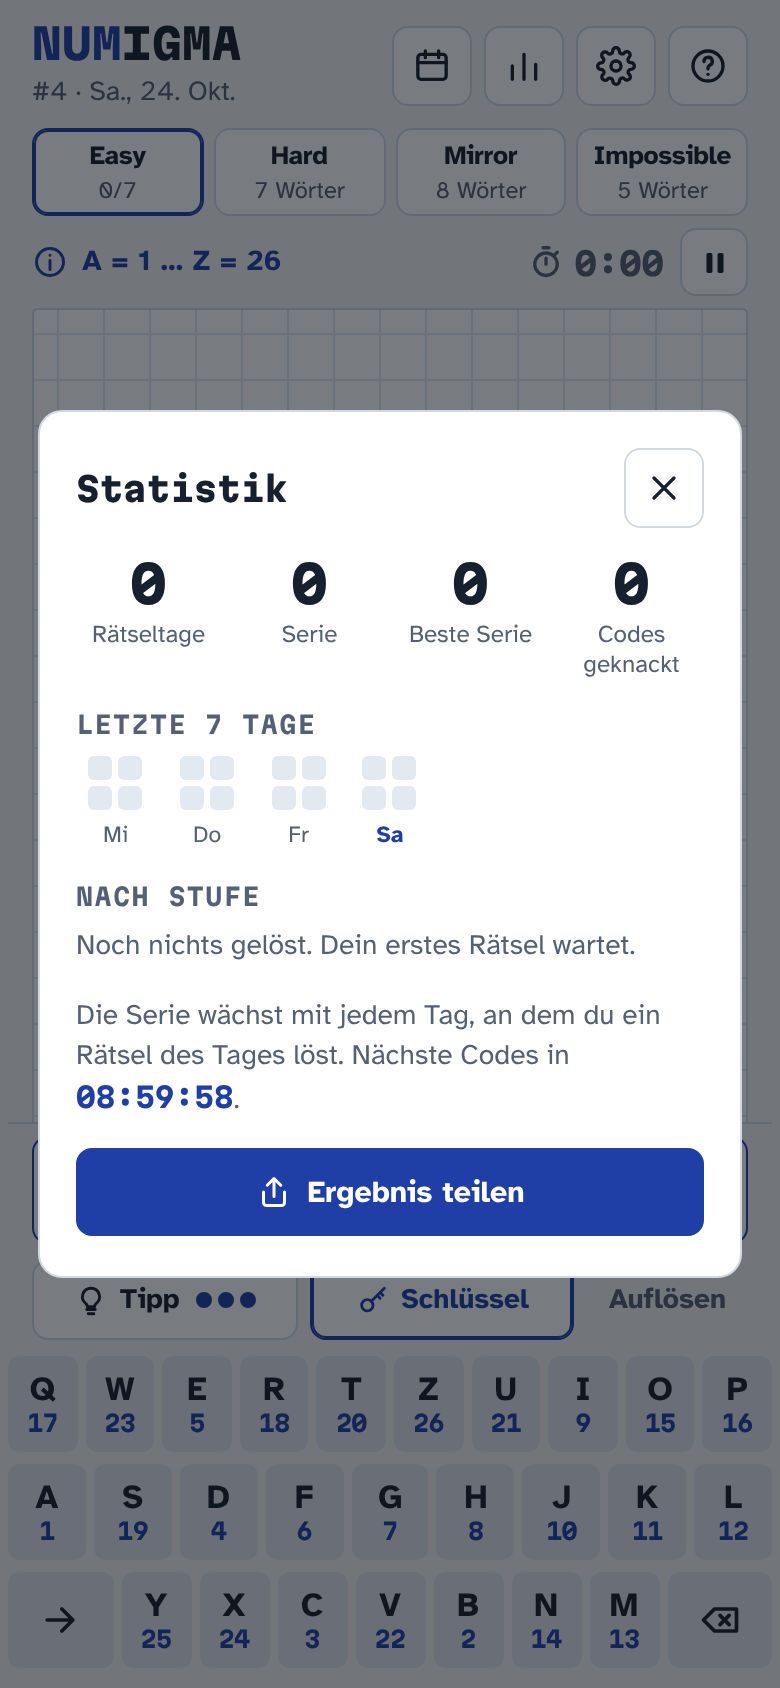
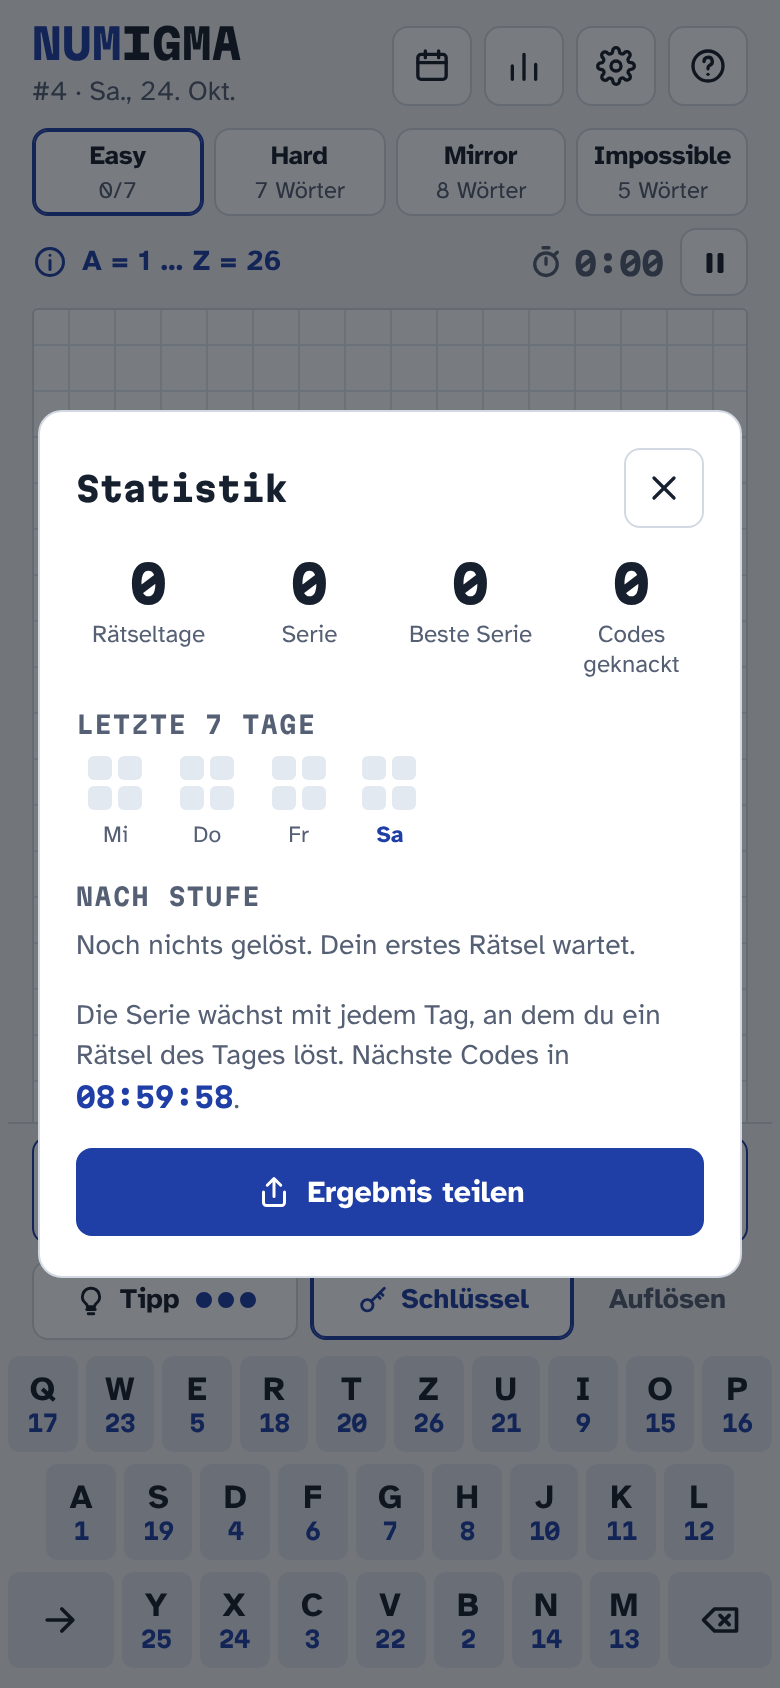
Feinschliff fürs Auge: Karopapier geht auf, Trennstrich mittig, Tasten gleich breit (#9)
Rückmeldung mit Bildschirmfotos (#9 Impossible, Android):
- Karopapier: links und rechts gleich viel Rand, das Blatt geht mit ganzen Kästchen auf.
  Vorher blieb rechts ein schmaler Streifen (bei 411 px etwa ein Sechstel Kästchen).
- Trennung bei Impossible: schmaler Strich genau in der Mitte zwischen zwei Ziffern und nur so hoch
  wie die Ziffern. Vorher klebte ein langer Balken an der nächsten Ziffer und reichte bis an die Kästchen.
- Tastatur wie eine echte: alle Buchstabentasten gleich breit, die mittlere Reihe um eine halbe Taste
  eingerückt. Seit es nur noch 26 Buchstaben gibt, waren die Tasten der mittleren Reihe breiter.
- Neuer Layout-Test misst das auf 320 bis 1280 px, hoch und quer, Deutsch und Englisch. Tests 67/67.

Claude-Session: https://claude.ai/code/session_01UizJ3MfA2PHDqjVNM3Cj6o

diff --git a/index.html b/index.html
@@ -153,9 +153,10 @@ a{color:var(--ink)}
 .w:focus-visible{outline:2px solid var(--ink);outline-offset:5px}
 .dr,.lr{display:flex;flex-wrap:wrap;position:relative;z-index:1}
 .dr{min-height:var(--cell)}
-.d{width:calc(var(--cell) / 2);height:var(--cell);display:grid;place-items:center;font-family:var(--display);font-weight:700;font-size:calc(var(--cell) * .54);color:var(--ink);font-variant-numeric:tabular-nums;line-height:1}
+.d{position:relative;width:calc(var(--cell) / 2);height:var(--cell);display:grid;place-items:center;font-family:var(--display);font-weight:700;font-size:calc(var(--cell) * .54);color:var(--ink);font-variant-numeric:tabular-nums;line-height:1}
 .easy .d{width:var(--cell);font-size:calc(var(--cell) * .5);letter-spacing:-.04em}
-.d.cut{box-shadow:inset 2px 0 0 var(--pencil)}
+/* Trennung: schmaler Strich genau in der Mitte zwischen zwei Ziffern, so hoch wie die Ziffern */
+.d.cut::before{content:"";position:absolute;left:-1px;top:24%;bottom:24%;width:2px;border-radius:1px;background:var(--pencil)}
 .c{width:var(--cell);height:var(--cell);display:grid;place-items:center;background:var(--cellbg);box-shadow:inset 0 0 0 1px var(--cellline);font-weight:700;font-size:calc(var(--cell) * .62);line-height:1;color:var(--text);user-select:none;-webkit-user-select:none}
 .c.hint{color:var(--pencil)}
 .w.act .c{box-shadow:inset 0 0 0 1px var(--ink)}
@@ -170,7 +171,7 @@ a{color:var(--ink)}
 .w.ok .d{color:var(--marker-text)}
 .w.ok .c.hint{color:var(--marker-text);opacity:.6}
 .w.ok .c,.w.ok .d{transition:color .1s .3s}
-.w.ok .d.cut{box-shadow:inset 2px 0 0 var(--marker-text)}
+.w.ok .d.cut::before{background:var(--marker-text)}
 .w.ok.helped .lr::after{content:"";position:absolute;right:-4px;top:-3px;width:7px;height:7px;border-radius:50%;background:var(--marker-text);opacity:.55}
 .w.given .c{color:var(--pencil);box-shadow:inset 0 -2px 0 0 var(--pencil);background:transparent}
 /* Gelöste und aufgelöste Wörter: Die Zahlen verschwinden, das Wort rückt in die Mitte. Größe bleibt gleich, damit nichts verrutscht. */
@@ -268,8 +269,10 @@ a{color:var(--ink)}
 .confirm.ask #confirmYes{order:2;margin-left:auto}
 .coach .btn{padding-inline:12px;min-height:34px}
 
-.kb{display:flex;flex-direction:column;gap:6px;user-select:none;-webkit-user-select:none}
-.kr{display:flex;gap:4px}
+.kb{--kgap:4px;display:flex;flex-direction:column;gap:6px;user-select:none;-webkit-user-select:none}
+.kr{display:flex;gap:var(--kgap)}
+/* Wie eine echte Tastatur: alle Buchstabentasten gleich breit, die mittlere Reihe (9 Tasten) um eine halbe Taste eingerückt */
+.kr.half{padding-inline:calc((100% + var(--kgap)) / 20)}
 .k{position:relative;flex:1 1 0;min-width:0;height:var(--kh)}
 .k > button{width:100%;height:100%;display:flex;flex-direction:column;align-items:center;justify-content:center;gap:2px;border:0;border-radius:6px;background:var(--key);color:var(--text);font-weight:700;font-size:1.05rem;line-height:1;cursor:pointer;touch-action:manipulation;padding:0;position:relative;overflow:hidden}
 .k > button b{font-weight:700;line-height:1}
@@ -301,7 +304,7 @@ a{color:var(--ink)}
   .tool{font-size:.8rem;padding:4px 6px;gap:4px}
   .tool svg{width:15px;height:15px}
   .pips i{width:7px;height:7px}
-  .kr{gap:3px}
+  .kb{--kgap:3px}
   .k > button{font-size:1rem}
   .card{padding:16px 14px}
 }
@@ -324,7 +327,7 @@ a{color:var(--ink)}
   .dock{grid-area:dock;align-self:end;border-top:0;margin:0;padding-block:8px 8px}
   .dock > .tools,.dock > .confirm,.dock > .coach{margin:0}
   .kb{gap:4px}
-  .kr{gap:3px}
+  .kb{--kgap:3px}
   .mode .n{font-size:.74rem;letter-spacing:-.02em}
   .mode .st{font-size:.7rem}
   .tools{gap:4px}
@@ -1160,12 +1163,15 @@ function layoutBoard() {
   const avail = board.clientWidth;
   if (!avail) return;
   const maxU = Math.max(...puz().words.map(w => wordUnits(w, current)));
-  // Normal: halbes Kästchen Rand. Wird es zu eng (sehr lange Wörter, schmale Handys), wird der Rand schmaler.
-  let cell = Math.floor((avail - 2) / (maxU + 1)), pad = null;
-  if (cell < 17) { pad = 6; cell = Math.floor((avail - 2 - 2 * pad) / maxU); }
+  // Normal: mindestens ein halbes Kästchen Rand. Wird es zu eng (sehr lange Wörter, schmale Handys), wird der Rand schmaler.
+  let cell = Math.floor((avail - 2) / (maxU + 1)), min = cell / 2;
+  if (cell < 17) { min = 6; cell = Math.floor((avail - 2 - 2 * min) / maxU); }
   cell = Math.max(15, Math.min(30, cell));
+  // Links und rechts gleich viel Rand, damit das Karopapier mit ganzen Kästchen aufgeht (kein schmaler Streifen am Rand)
+  const cols = Math.max(maxU, Math.floor((avail - 2 * min) / cell));
+  const pad = Math.max(0, Math.floor((avail - cols * cell) / 2));
   board.style.setProperty('--cell', cell + 'px');
-  if (pad) board.style.setProperty('--pad', pad + 'px'); else board.style.removeProperty('--pad');
+  board.style.setProperty('--pad', pad + 'px');
 }
 
 function updateWord(wi) {
@@ -1196,7 +1202,8 @@ function updateWord(wi) {
 
 function buildKeyboard() {
   const t = T();
-  $('#kb').innerHTML = t.keyrows.map(row => '<div class="kr">' + row.map(k => {
+  const half = row => row.length === t.keyrows[0].length - 1 && row.every(k => k.length === 1);   // mittlere Buchstabenreihe
+  $('#kb').innerHTML = t.keyrows.map(row => `<div class="kr${half(row) ? ' half' : ''}">` + row.map(k => {
     if (k === 'next') return `<div class="k wide" data-k="next"><button type="button" aria-label="${esc(t.nextWord)}">${ICON.next}</button></div>`;
     if (k === 'back') return `<div class="k wide" data-k="back"><button type="button" aria-label="${esc(t.backspace)}">${ICON.back}</button></div>`;
     return `<div class="k" data-k="${k}"><button type="button"><b>${k}</b><i aria-hidden="true"></i></button></div>`;

diff --git a/_dev/tests/layout.test.js b/_dev/tests/layout.test.js
@@ -157,3 +157,33 @@ test('Layout: die längsten Wörter des ganzen Vorrats passen auf 320 px in eine
   }
   assert.deepEqual(problems, []);
 });
+
+test('Layout: Karopapier geht mit ganzen Kästchen auf (gleicher Rand links und rechts), Trennstrich mittig, Buchstabentasten gleich breit', async () => {
+  for (const [width, height] of [[320, 568], [360, 740], [411, 836], [844, 390], [1280, 800]]) {
+    for (const lang of ['de', 'en']) {
+      const page = await openPage(env, { width, height, mobile: width < 800, url: (lang === 'en' ? 'en/' : '') + '?n=4&m=impossible' });
+      await page.click('#startBtn');
+      await page.click('#hintBtn');
+      if (await page.isVisible('#confirmYes')) await page.click('#confirmYes');
+      const r = await page.evaluate(() => {
+        const bd = document.querySelector('#board'), cs = getComputedStyle(bd);
+        const cell = parseFloat(cs.getPropertyValue('--cell')), pad = parseFloat(cs.getPropertyValue('--pad'));
+        const cols = (bd.clientWidth - 2 * pad) / cell;
+        const keys = [...document.querySelectorAll('#kb .k')].filter(k => k.dataset.k.length === 1).map(k => k.getBoundingClientRect().width);
+        const cut = document.querySelector('.d.cut'), prev = cut && cut.previousElementSibling;
+        let mid = null;
+        if (cut && prev) {
+          const line = getComputedStyle(cut, '::before'), c = cut.getBoundingClientRect(), p = prev.getBoundingClientRect();
+          mid = Math.abs((c.left + parseFloat(line.left) + parseFloat(line.width) / 2) - (p.right + c.left) / 2);
+        }
+        return { cell, pad, cols, keys: [Math.min(...keys), Math.max(...keys)], mid };
+      });
+      const tag = `${width}×${height} ${lang}`;
+      assert.ok(Math.abs(r.cols - Math.round(r.cols)) < 0.05, `${tag}: ${r.cols} Kästchen breit, Rand ${r.pad}px`);
+      assert.ok(r.pad >= 6, `${tag}: Rand ${r.pad}px`);
+      assert.ok(r.keys[1] - r.keys[0] <= 1, `${tag}: Tasten ${r.keys.join('–')}px breit`);
+      assert.ok(r.mid !== null && r.mid <= 1, `${tag}: Trennstrich ${r.mid}px neben der Mitte`);
+      await page.context().close();
+    }
+  }
+});
